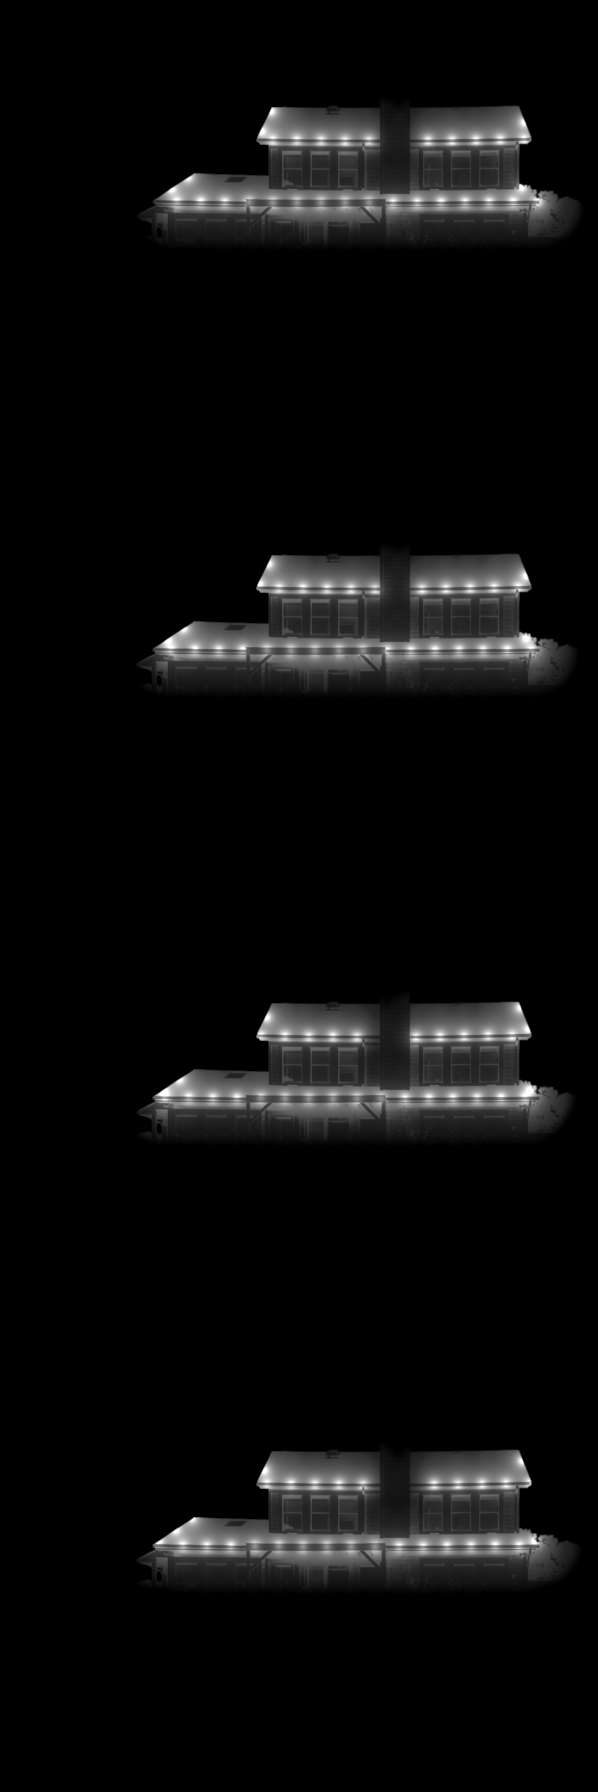
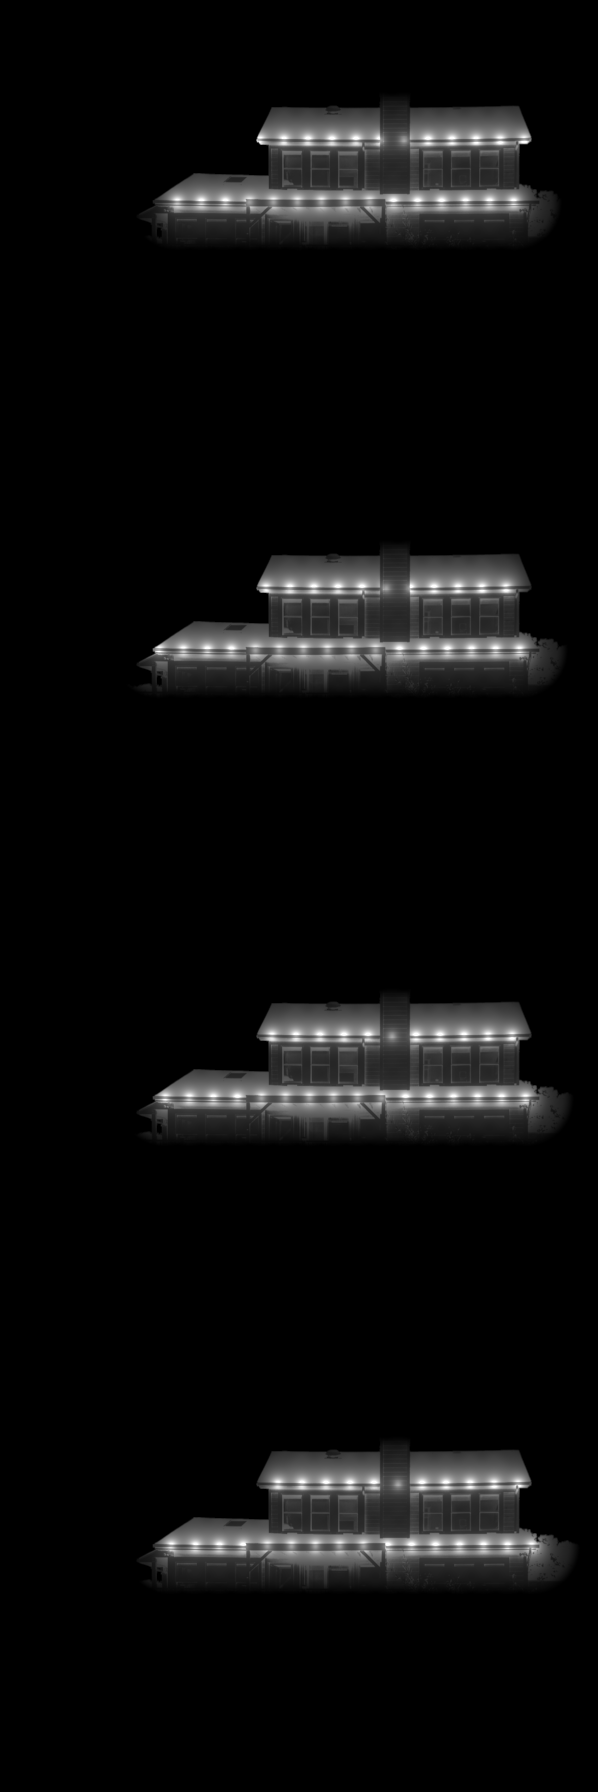
Mikey lights: no roofline double-dip, no wreath/garland pictures, prices in one RATE table
Base roofline now also lights the sloped roof edges on the sound-side view (same physical edges, no new
footage); the sound-side item is only the two straight eaves, 96 ft at 9.50. Wreaths and garland stay as
priced options with no picture layer, and none is ticked: defaults are roofline + porch railing, 1,794.

Claude-Session: https://claude.ai/code/session_01YXcUTCVaxQYCoghA18zKvq

diff --git a/assets/quotes/mikey-bay-lights-7c4e/index.html b/assets/quotes/mikey-bay-lights-7c4e/index.html
@@ -97,25 +97,29 @@ var COLORS=[
  {id:"multi",name:"Multicolor",dots:["#ff4b3e","#3fd46a","#4f8dff"],img:"multi.jpg"},
  {id:"redwhite",name:"Red and white",dots:["#ff4b3e","#f5f5f5","#ff4b3e"],img:"redwhite.jpg"},
  {id:"bluewhite",name:"Blue and white",dots:["#4f8dff","#f5f5f5","#4f8dff"],img:"bluewhite.jpg"}];
+/* PRICES: change a rate here and every item that uses it follows (quantities are in each item). */
+var RATE={roof2:9.5,rail:3,post:40,bush:75,garland:8,wreath:{24:60,36:110,48:175,60:325}};
+function wsizes(list){return list.map(function(n){return [n+" in",RATE.wreath[n]]})}
+/* Wreaths and garland are options only on this page: no picture layer (view:null), per Ray 11/9. */
 var GROUPS=[
  {name:"Roofline",sub:"",items:[
-  {id:"rf",view:"front",kind:"roof",label:"Roofline, front and sides",note:"180 ft",price:180*9.5,base:true},
-  {id:"rb",view:"back",kind:"roof",label:"Roofline, sound side",note:"110 ft",price:110*9.5}]},
+  {id:"rf",view:"front",kind:"roof",layers:{front:"rf",back:"rfb"},label:"Roofline, front and sides",note:"180 ft",price:180*RATE.roof2,base:true},
+  {id:"rb",view:"back",kind:"roof",label:"Roofline, sound side",note:"96 ft",price:96*RATE.roof2}]},
  {name:"Front",sub:"",items:[
-  {id:"fp",view:"front",kind:"mini",label:"Porch railing",note:"28 ft",price:28*3,on:true},
-  {id:"fs",view:"front",kind:"mini",label:"Front stair handrails",note:"40 ft",price:40*3},
-  {id:"fc",view:"front",kind:"mini",label:"Porch columns",note:"5",price:5*40}]},
+  {id:"fp",view:"front",kind:"mini",label:"Porch railing",note:"28 ft",price:28*RATE.rail,on:true},
+  {id:"fs",view:"front",kind:"mini",label:"Front stair handrails",note:"40 ft",price:40*RATE.rail},
+  {id:"fc",view:"front",kind:"mini",label:"Porch columns",note:"5",price:5*RATE.post}]},
  {name:"Sound side",sub:"",items:[
-  {id:"bd",view:"back",kind:"mini",label:"Deck railing",note:"75 ft",price:75*3},
-  {id:"bp",view:"back",kind:"mini",label:"Deck posts and pilings",note:"6",price:6*40}]},
+  {id:"bd",view:"back",kind:"mini",label:"Deck railing",note:"75 ft",price:75*RATE.rail},
+  {id:"bp",view:"back",kind:"mini",label:"Deck posts and pilings",note:"6",price:6*RATE.post}]},
  {name:"Wreaths and garland",sub:"",items:[
-  {id:"wg",view:"front",kind:"decor",label:"Wreath on the big gable",sizes:[["36 in",110],["48 in",175],["60 in",325]],size:1,on:true},
-  {id:"wl",view:"front",kind:"decor",label:"Wreath on the side gable",sizes:[["24 in",60],["36 in",110]],size:1},
-  {id:"wf",view:"front",kind:"decor",label:"Front door wreath",sizes:[["24 in",60],["36 in",110]],size:0},
-  {id:"gs",view:"front",kind:"decor",label:"Garland, stair rails",note:"40 ft",price:40*8},
-  {id:"gp",view:"front",kind:"decor",label:"Garland, porch railing",note:"28 ft",price:28*8}]},
+  {id:"wg",view:null,kind:"decor",label:"Wreath on the big gable",sizes:wsizes([36,48,60]),size:1},
+  {id:"wl",view:null,kind:"decor",label:"Wreath on the side gable",sizes:wsizes([24,36]),size:1},
+  {id:"wf",view:null,kind:"decor",label:"Front door wreath",sizes:wsizes([24,36]),size:0},
+  {id:"gs",view:null,kind:"decor",label:"Garland, stair rails",note:"40 ft",price:40*RATE.garland},
+  {id:"gp",view:null,kind:"decor",label:"Garland, porch railing",note:"28 ft",price:28*RATE.garland}]},
  {name:"Yard",sub:"",items:[
-  {id:"sh",view:"front",kind:"mini",label:"Front shrubs",note:"5",price:5*75}]}];
+  {id:"sh",view:"front",kind:"mini",label:"Front shrubs",note:"5",price:5*RATE.bush}]}];
 var ALL=[];GROUPS.forEach(function(g){g.items.forEach(function(i){ALL.push(i)})});
 var VIEWS={front:{base:"lights/base-front.jpg"},back:{base:"lights/base-back.jpg"}};
 var st={on:{},size:{},roof:"warm",mini:"warm",view:"front"};
